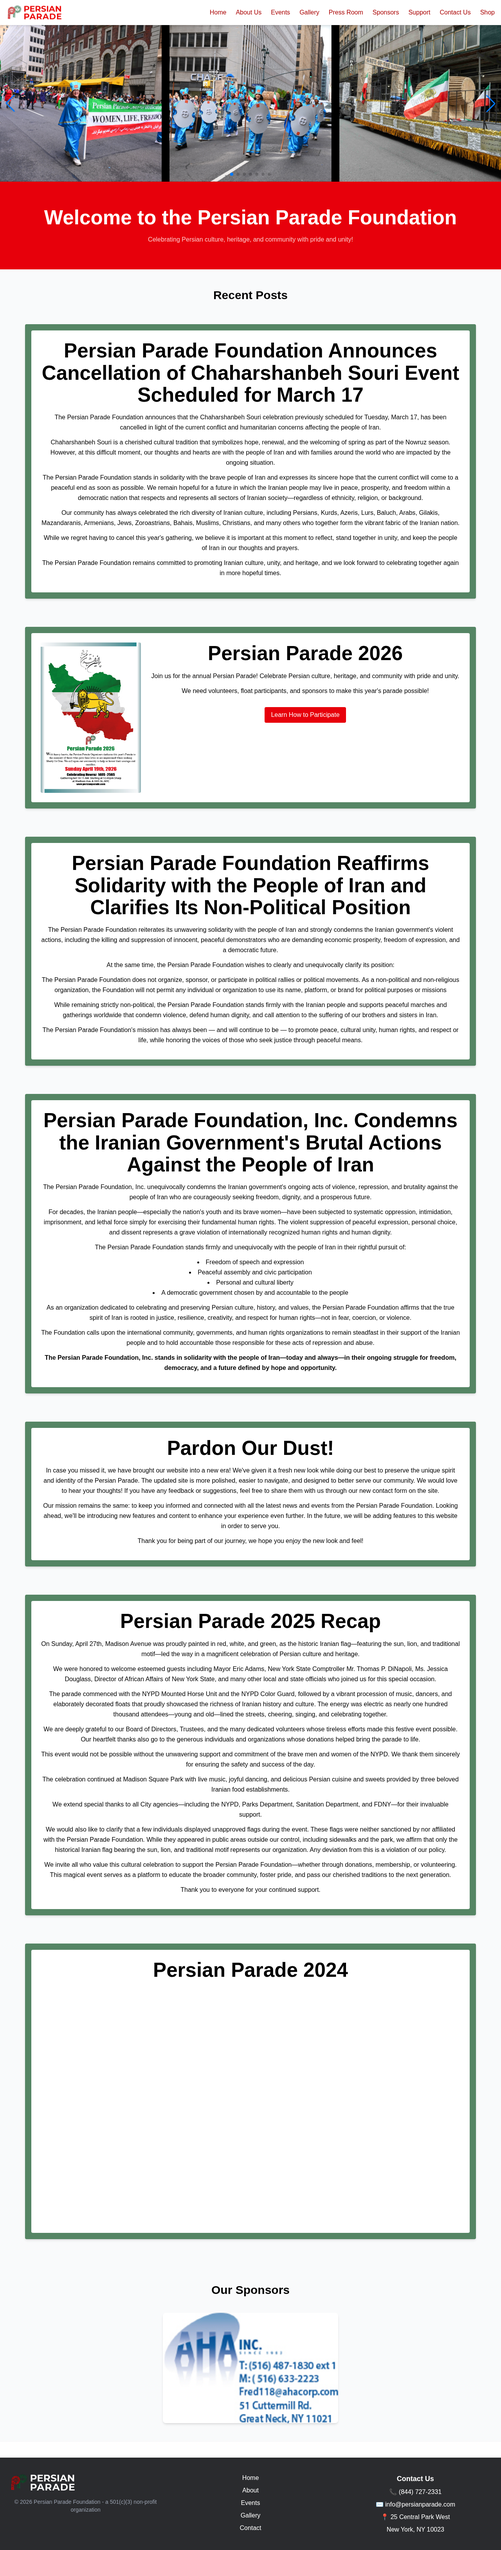
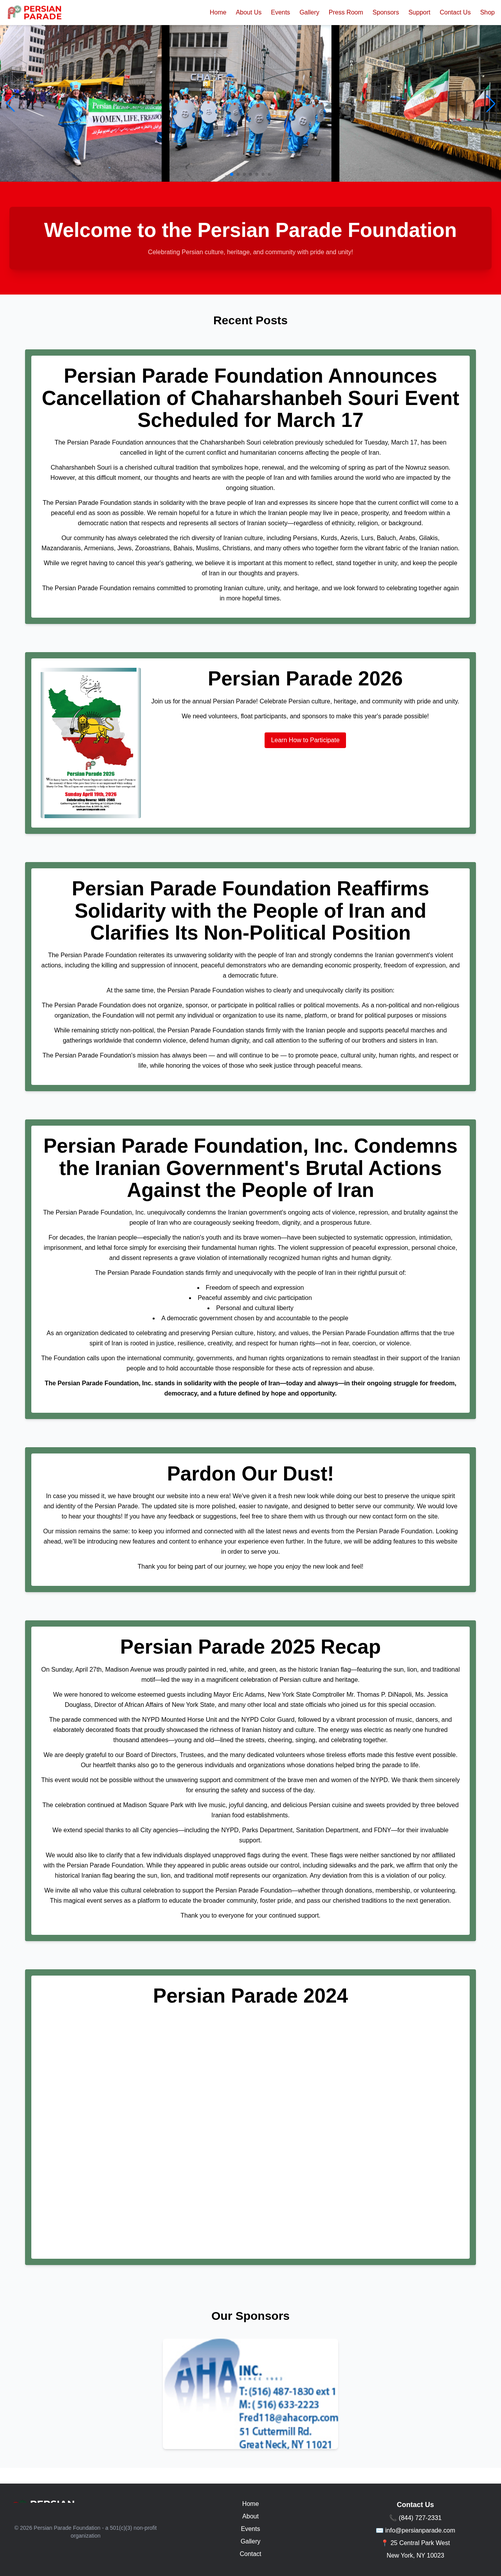
Fix screenshot script routes and add cleanup option

diff --git a/src/pages/Home.jsx b/src/pages/Home.jsx
@@ -11,13 +11,15 @@ const Home = () => {
       <HomeSlider />
 
       {/* Red Welcome Banner */}
-      <section className="bg-red-600 text-white py-16 px-6 shadow-xl">
-        <h1 className="text-4xl font-bold text-center mb-4">
-          Welcome to the Persian Parade Foundation
-        </h1>
-        <p className="max-w-2xl mx-auto text-center text-red-200">
-          Celebrating Persian culture, heritage, and community with pride and unity!
-        </p>
+      <section className="bg-red-600 text-white py-16 px-6">
+        <div className="shadow-xl rounded-lg p-8 bg-red-700">
+          <h1 className="text-4xl font-bold text-center mb-4">
+            Welcome to the Persian Parade Foundation
+          </h1>
+          <p className="max-w-2xl mx-auto text-center text-red-200">
+            Celebrating Persian culture, heritage, and community with pride and unity!
+          </p>
+        </div>
       </section>
 
       {/* Recent Posts Section */}
